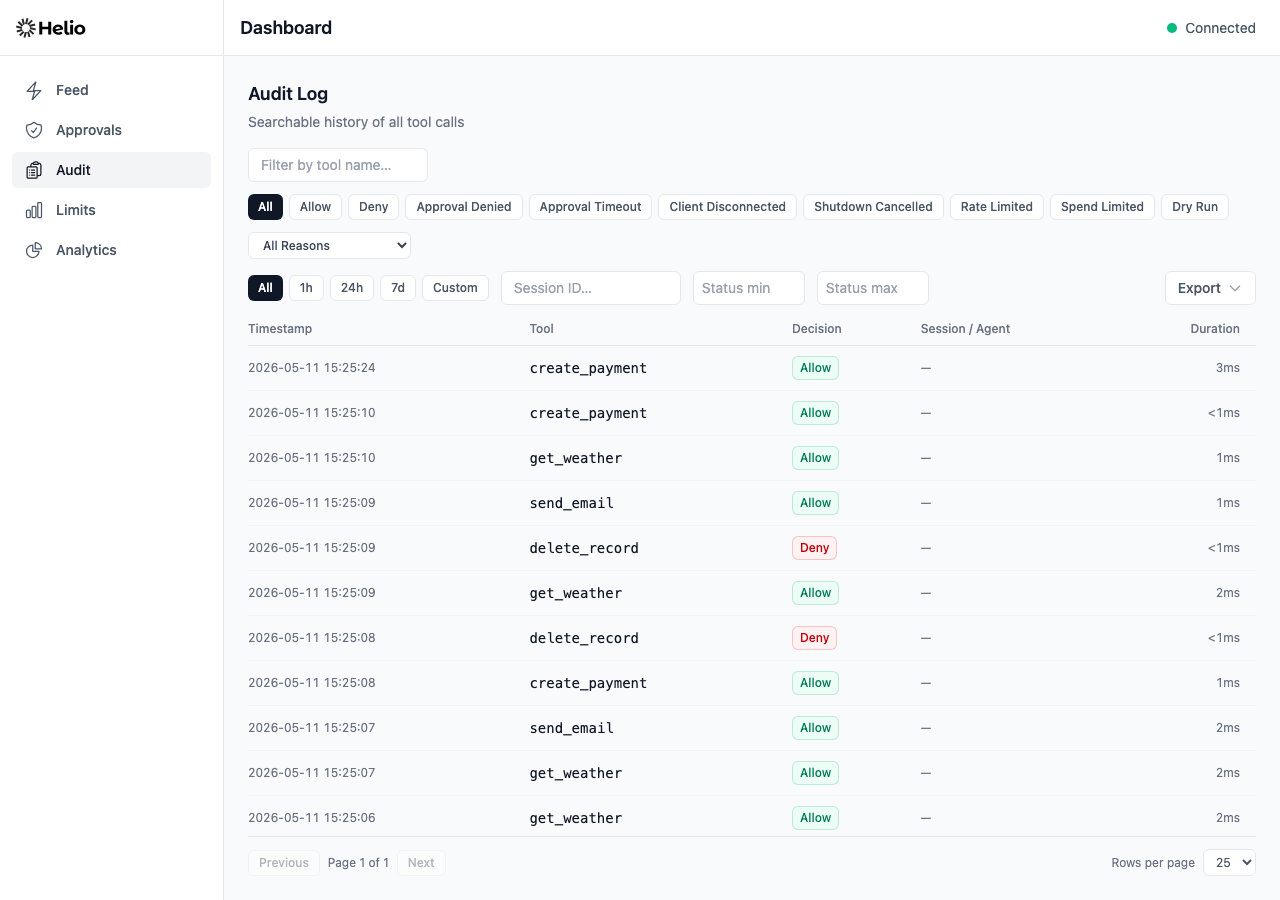
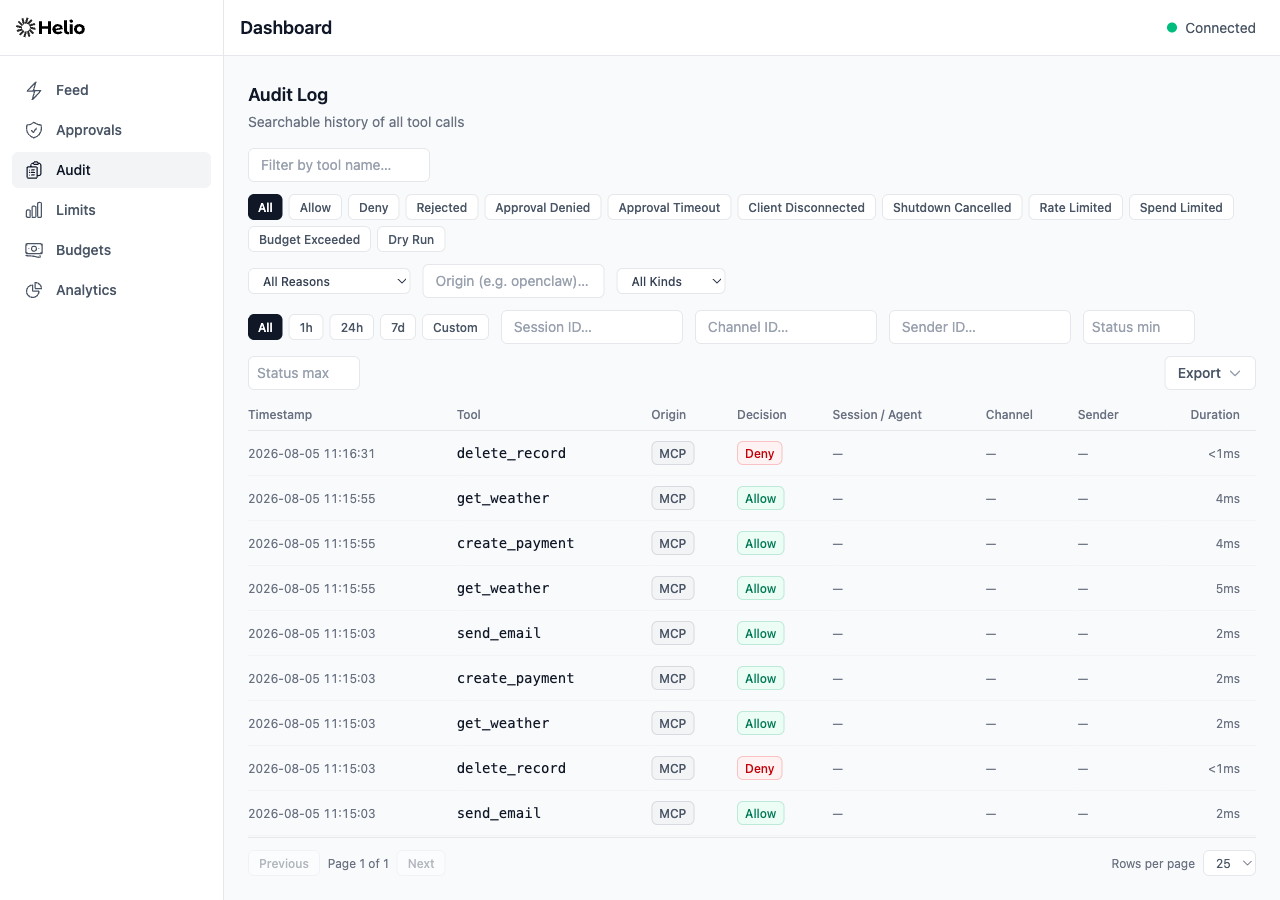
docs(packages): sync package READMEs and refresh dashboard screenshots (#246)
The npm-facing proxy README had drifted from the root README: the
How It Works section predated budgets and the enforcement grades,
the quick start still described hand-authoring helio.yaml instead of
the init scaffold and its audit-only default, and the SDK sideband
token was described as unconditional when it requires sdk.enabled.
Rebuild the file from the root README, keeping the npm-specific
divergences: absolute links, a raw.githubusercontent image URL, and
the note that docs are not bundled into the tarball.

Add the budgets view to the dashboard README's feature list, state
the allow_open_mode gate on secretless configs, and align the Python
SDK quick start with the sdk.enabled default and the current startup
log wording.

Replace the three dashboard screenshots in docs/images with captures
of the current UI: the budgets tab, origin badges and columns, and
the newer decision filters were missing from the May captures. The
test call screenshot now shows the London example the getting
started guide runs.

diff --git a/packages/proxy/README.md b/packages/proxy/README.md
@@ -15,11 +15,13 @@
 
 ---
 
-Helio is an MCP proxy that sits between your AI agents and the tools they use. Every tool call passes through Helio, which enforces policies, checks evidence, routes approvals, tracks spend, and records everything - **without changing your agent code or your MCP servers.**
+Helio is an MCP proxy that sits between your AI agents and the tools they use. Every tool call passes through Helio, which enforces policies, checks evidence, routes approvals, caps cumulative spend, and records everything - **without changing your agent code or your MCP servers.**
 
 ```bash
 npx @gethelio/proxy init
 ```
+
+`@gethelio/proxy` is the only Node package you install. It ships the proxy runtime and bundled dashboard UI assets together.
 
 ## Why Helio?
 
@@ -31,25 +33,22 @@ Helio governs what agents **do to the rest of the world** across any MCP-compati
 
 ## How It Works
 
-```
-┌──────────────┐     ┌──────────────────────┐     ┌──────────────┐
-│              │     │       Helio           │     │              │
-│  MCP Client  │────▶│                       │────▶│  MCP Server  │
-│  (Agent)     │◀────│  • Policy engine      │◀────│  (Tools)     │
-│              │     │  • Evidence grounding  │     │              │
-└──────────────┘     │  • Approval workflows  │     └──────────────┘
-                     │  • Rate & spend limits │
-        Optional     │  • Audit trail         │
-      ┌─────────┐    │  • Self-repair feedback│
-      │  SDK    │───▶│                       │
-      │ (thin)  │    └──────────────────────┘
-      └─────────┘
-```
+<p align="center">
+  <img src="https://raw.githubusercontent.com/gethelio/helio/main/docs/images/how-it-works.svg" alt="MCP clients send tool calls through Helio — which applies its policy engine, evidence grounding, approval workflows, cross-tool spend budgets, rate and spend limits, audit trail, and self-repair feedback — before forwarding them to MCP servers. An optional thin Python SDK connects to Helio over a sideband." width="900" />
+</p>
 
 Two integration paths:
 
 1. **Proxy only**: Point your MCP client at Helio instead of your MCP server. Zero code changes. Immediate governance.
 2. **Proxy + SDK**: Add the thin Python SDK to annotate tool calls with evidence context and action dependencies. Richer governance, under 500 lines of code.
+
+### Enforcement grades
+
+Helio governs at the strongest grade each path physically allows, and records it per call:
+
+- **Structural** (stdio MCP) — Helio owns the only path to the tool; the agent cannot route around it.
+- **Network** (HTTP MCP) — structural given you control the upstream's egress.
+- **Host-enforced** (hook adapters via the [adapter API](https://github.com/gethelio/helio/blob/main/docs/adapter-api.md), e.g. OpenClaw) — for frameworks that run tools in-process and expose hooks rather than an MCP transport. The framework's hook gate enforces; Helio decides. This is a cooperative, lower grade than the proxy path, and Helio labels it as such rather than overclaiming. Helio's decisions still cannot be evicted from the agent's context or prompt-injected, and any attempt to route around them is visible in the audit trail.
 
 ## Quick Start (5 minutes)
 
@@ -59,15 +58,22 @@ Two integration paths:
 npx @gethelio/proxy init
 ```
 
+This single package includes the built-in dashboard UI bundle.
+
 ### 2. Configure
 
-Create a `helio.yaml` in your project root:
+`npx @gethelio/proxy init` already created a `helio.yaml` in your project root. Open it (e.g. `nano helio.yaml`, or in your editor) and point `upstream.url` at your existing MCP server. Helio v0.1 proxies a single upstream MCP server.
+
+> **Heads up — Helio starts in audit-only mode.** `init` scaffolds the `policies` section **commented out**, so out of the box Helio runs with `default: allow` and **zero rules**: it records every tool call to the audit trail but **blocks nothing**. Uncomment and edit `policies` (or paste your own rules) to start enforcing. See the [Policy Guide](https://github.com/gethelio/helio/blob/main/docs/policies.md) for rule syntax.
+
+The block below is an **illustrative target** — not the file `init` writes — showing policies, budgets, audit, and a dashboard secret:
 
 ```yaml
 version: '1'
 
 upstream:
-  url: 'http://localhost:3001/mcp' # Your existing MCP server
+  url: 'http://localhost:8080/mcp' # Your existing MCP server
+  transport: streamable-http # streamable-http (default), sse, or stdio
 
 listen:
   port: 3000 # Helio listens here
@@ -75,17 +81,8 @@ listen:
 policies:
   default: allow
 
+  # These rules match on tool-name globs (deny / rate-limit / spend-limit):
   rules:
-    # Require approval for write operations
-    - match:
-        tool: '*'
-        annotations:
-          readOnlyHint: false
-      action: require_approval
-      approval:
-        channel: dashboard
-        timeout: 300s
-
     # Block destructive operations
     - match:
         tool: 'delete_*'
@@ -137,18 +134,23 @@ audit:
 dashboard:
   enabled: true
   port: 3100
-  # Required whenever any rule uses `require_approval`. Generate with:
-  #   openssl rand -hex 32
   api_secret: '${HELIO_DASHBOARD_SECRET}'
 ```
 
-If you use the `${HELIO_DASHBOARD_SECRET}` placeholder above, set it before `start`:
+Omitted fields like `listen.host`, `dashboard.host`, and `audit.path` fall back to safe defaults (`127.0.0.1` for both hosts — loopback only — and `./helio-audit.db`). The [Configuration Reference](https://github.com/gethelio/helio/blob/main/docs/configuration.md) is the authoritative list of every field, its default, and the canonical section order.
 
-```bash
-export HELIO_DASHBOARD_SECRET="$(openssl rand -hex 32)"
-```
+If your upstream requires a static credential (for example `Authorization: Bearer …` on a hosted MCP server), set [`upstream.headers`](https://github.com/gethelio/helio/blob/main/docs/configuration.md#static-request-headers) — values support `${VAR}` interpolation so secrets stay out of the file.
 
-> **Host binding defaults.** `helio start` binds `listen.host` and `dashboard.host` to `127.0.0.1` by default (the `helio init` template writes this value, and the schema defaults to it). Do **not** flip either to `0.0.0.0` without putting an authenticating reverse proxy in front — the MCP edge has no authentication at all, and the dashboard sideband's bearer is a shared secret, not a user session. The [Docker quickstart](https://github.com/gethelio/helio/tree/main/docker) inverts this layering: inside the container the bundled config binds `0.0.0.0` (correct for the container's virtual network) and Compose's `ports:` map publishes both ports back to `127.0.0.1` on the host.
+No MCP server to test against? Helio ships a zero-dependency echo server you can run in one command — see the [Getting Started guide](https://github.com/gethelio/helio/blob/main/docs/getting-started.md#no-mcp-server-to-test-with).
+
+About `dashboard.api_secret`:
+
+- **If you ran `npx @gethelio/proxy init`**, your `helio.yaml` already contains a generated `api_secret` (a literal 32-byte hex value, also printed when you ran `init`). It's set — skip this step.
+- **If you authored `helio.yaml` by hand** using the `${HELIO_DASHBOARD_SECRET}` placeholder shown above, set the variable before `start`:
+
+  ```bash
+  export HELIO_DASHBOARD_SECRET="$(openssl rand -hex 32)"
+  ```
 
 ### 3. Start Helio
 
@@ -168,15 +170,27 @@ npx @gethelio/proxy start
 }
 ```
 
+**No agent handy?** You don't need one to see Helio work. Point the official [MCP Inspector](https://modelcontextprotocol.io/docs/tools/inspector) at `http://localhost:3000/mcp` (run `npx @modelcontextprotocol/inspector`, transport: Streamable HTTP — Inspector connects through its own local backend, which sends no `Origin` header; a browser-sent `Origin` is rejected by design), or send a call straight through the proxy from the terminal:
+
+```bash
+curl -s -X POST http://localhost:3000/mcp \
+  -H 'Content-Type: application/json' \
+  -d '{"jsonrpc":"2.0","id":1,"method":"tools/call","params":{"name":"get_weather","arguments":{"city":"London"}}}'
+```
+
+Either way the call appears in the dashboard with its policy decision. (`get_weather` is one of the demo tools in Helio's [echo server](https://github.com/gethelio/helio/blob/main/docs/getting-started.md#no-mcp-server-to-test-with).)
+
 ### 5. Open the dashboard
 
 ```
 http://localhost:3100
 ```
 
-That's it. Every tool call now passes through Helio. This includes full audit trail, approval workflows, rate limits, and spend controls.
+If prompted, log in with the `dashboard.api_secret` that `init` generated (also printed when you ran it).
 
-> **Notification transport semantics (v0.1).** For JSON-RPC notifications (requests with no `id`), Helio's `streamable-http` endpoint returns `HTTP 202 Accepted` with an empty body after forwarding upstream fire-and-forget. For the legacy `sse` transport, POST requests also return `202` with empty body and response payloads are delivered on the SSE stream. For correlated (non-notification) requests, Helio now requires upstream JSON-RPC responses to include an `id`; missing-id upstream replies are wrapped as protocol-invalid upstream errors.
+That's it. Every tool call now passes through Helio with a full audit trail, rate limits, and spend controls.
+
+Want human-in-the-loop approvals for write operations? See [docs/approvals.md](https://github.com/gethelio/helio/blob/main/docs/approvals.md) for the full Slack and dashboard approval flow, or copy [examples/slack-approvals/](https://github.com/gethelio/helio/tree/main/examples/slack-approvals) as a starting point.
 
 ## Features
 
@@ -200,12 +214,11 @@ Cumulative cross-tool spend enforcement: one depleting pot aggregates spend acro
 
 ```yaml
 budgets:
-  - name: agent-payments
+  - name: daily-cap
     limit: 50
     currency: USD
-    window: session
-    key: session
-    on_exceed: require_approval # or: deny
+    window: 24h
+    on_exceed: require_approval # a breach becomes a human decision
     contributors:
       - match:
           tool: 'stripe_*'
@@ -214,6 +227,8 @@ budgets:
           tool: 'paypal_*'
         field: '$.total'
 ```
+
+Budgets govern tools that expose what they are spending in an argument field. Watch the full flow — live depletion, breach, break-glass approval, the approved overage landing in the ledger — in the [Docker quickstart demo](https://github.com/gethelio/helio/blob/main/docker/README.md#break-the-budget) or the runnable [budgets example](https://github.com/gethelio/helio/tree/main/examples/budgets).
 
 ### Evidence Grounding
 
@@ -239,15 +254,15 @@ with HelioContext() as ctx:
     ctx.mark_evidence("orders.lookup", "order_data", result)
 ```
 
-The SDK talks to the proxy over the sideband API (default `127.0.0.1:3200`; bind host is configurable via `sdk.host`). On every `helio start` the proxy generates a fresh 32-byte hex token and prints it to stderr:
+The SDK talks to the proxy over the sideband API (default `127.0.0.1:3200`; bind host is configurable via `sdk.host`). When the SDK sideband is enabled (`sdk.enabled: true`, off by default), the proxy generates a fresh 32-byte hex token on every `helio start` and prints it to stderr:
 
 ```
 SDK sideband listening on http://127.0.0.1:3200
-SDK token (pass as HELIO_SDK_TOKEN env var to your SDK clients):
+SDK token (generated per-boot HELIO_SDK_TOKEN; pass as HELIO_SDK_TOKEN env var to your SDK clients):
   3f9c2b...d8a1
 ```
 
-Pass the same value to the SDK process via `HELIO_SDK_TOKEN` and the SDK automatically attaches `Authorization: Bearer <token>` to every sideband call. The sideband also rejects any request carrying a non-null `Origin` header, so a malicious local HTML file cannot talk to it through a browser. Operators who need a stable token across restarts can set `HELIO_SDK_TOKEN` explicitly in the proxy's environment — the proxy respects a pre-set value instead of regenerating one.
+Pass the same value to the SDK process via `HELIO_SDK_TOKEN` and the SDK automatically attaches `Authorization: Bearer <token>` to every sideband call. The sideband also rejects any request carrying a non-null `Origin` header, so a malicious local HTML file cannot talk to it through a browser. Operators who need a stable token across restarts can set `HELIO_SDK_TOKEN` explicitly in the proxy's environment — the proxy respects a pre-set value instead of regenerating one, and does not echo it to stderr.
 
 ### Self-Repair Feedback
 
@@ -278,7 +293,6 @@ policies:
 ### Approval Workflows
 
 Route sensitive actions to Slack, webhook, or the Helio dashboard. Configurable timeout and escalation, plus a dashboard-only break-glass override (REST API and dashboard UI; not exposed as a Slack button).
-If a channel delivery fails, Helio logs an operational warning and emits an `approval_notification_failed` dashboard event so operators can investigate without losing the underlying pending ticket.
 
 ### Rate & Spend Limits
 
@@ -334,7 +348,7 @@ Ready-made configurations for common patterns:
 - **[Basic](https://github.com/gethelio/helio/tree/main/examples/basic)**: Deny destructive operations, allow everything else
 - **[Slack Approvals](https://github.com/gethelio/helio/tree/main/examples/slack-approvals)**: Route destructive actions to Slack
 - **[Spend Limits](https://github.com/gethelio/helio/tree/main/examples/spend-limits)**: Govern payment tool usage
-- **[Budgets](https://github.com/gethelio/helio/tree/main/examples/budgets)**: One cross-tool budget across Stripe and PayPal tools, with break-glass overage approvals
+- **[Budgets](https://github.com/gethelio/helio/tree/main/examples/budgets)**: A cross-tool budget across Stripe and PayPal tools with break-glass overage approvals, paired with a category cap that only charges calls declaring their spend category
 
 ## Contributing
 

diff --git a/packages/dashboard/README.md b/packages/dashboard/README.md
@@ -1,6 +1,6 @@
 # @gethelio/dashboard
 
-The operator UI for the [Helio MCP governance proxy](https://github.com/gethelio/helio). A React 19 + Vite single-page app that renders the live tool-call feed, audit search, policy decision analytics, rate/spend limit state, and the approval queue.
+The operator UI for the [Helio MCP governance proxy](https://github.com/gethelio/helio). A React 19 + Vite single-page app that renders the live tool-call feed, audit search, policy decision analytics, rate/spend limit state, cross-tool budget pots, and the approval queue.
 
 This package is consumed by `@gethelio/proxy` — when you run `helio start` with `dashboard.enabled: true`, the proxy serves the dashboard's static assets directly. This workspace package is internal and is not published separately.
 
@@ -39,14 +39,14 @@ See `packages/proxy/src/dashboard/api.ts` for the auth/session middleware and `p
 
 ## Detail panel truncation + history safety
 
-Dashboard detail views can receive arbitrarily large payloads from upstream tools and approval inputs. The UI now applies consistent 4 KB preview caps via `stringifyForDisplay()` / `truncateForDisplay()` in `src/utils.ts`:
+Dashboard detail views can receive arbitrarily large payloads from upstream tools and approval inputs. The UI applies consistent 4 KB preview caps via `stringifyForDisplay()` / `truncateForDisplay()` in `src/utils.ts`:
 
 - `AuditDetailPanel` truncates `tool_input`, `upstream_response`, and `upstream_error`.
 - `ApprovalsPage` truncates `tool_input` in both pending and resolved detail rows.
 
 This protects the browser from expensive mega-string renders while keeping operators aware that the preview is truncated. The full audit record remains available through CLI/API export paths (`helio export`, `GET /api/audit/export`).
 
-Approvals history loading is additionally safety-capped at 5,000 rows in the current implementation. When that cap is reached, the page renders an explicit warning banner so older entries are never silently omitted.
+Approvals history loading is additionally safety-capped at 5,000 rows (20 pages of 250). When that cap is reached, the page renders an explicit warning banner so older entries are never silently omitted.
 
 This package does not ship any runtime JavaScript module exports. Proxy runtime serving uses bundled static assets copied into `@gethelio/proxy` during build.
 
@@ -62,7 +62,7 @@ pnpm --filter @gethelio/proxy dev
 pnpm --filter @gethelio/dashboard dev
 ```
 
-Open the Vite URL (default `http://localhost:5173`). If your proxy has `dashboard.api_secret` set, the app shows the lock screen first; enter the secret and the proxy establishes a cookie session automatically. If your proxy has no `api_secret` configured, the app goes straight to the dashboard.
+Open the Vite URL (default `http://localhost:5173`). If your proxy has `dashboard.api_secret` set, the app shows the lock screen first; enter the secret and the proxy establishes a cookie session automatically. If your proxy has no `api_secret` configured (which the config schema only allows with `dashboard.allow_open_mode: true` on a loopback host), the app goes straight to the dashboard.
 
 ## Scripts
 

diff --git a/packages/python-sdk/README.md b/packages/python-sdk/README.md
@@ -12,7 +12,7 @@ pip install helio-client
 
 ## Quick Start
 
-The proxy prints a per-boot SDK token to stderr on startup (`SDK token (pass as HELIO_SDK_TOKEN env var to your SDK clients): ...`). Export it in the environment where your SDK client runs — the client reads `HELIO_SDK_TOKEN` automatically and attaches it as `Authorization: Bearer <token>` on every sideband call. Without it, requests to the proxy sideband are rejected with `401`.
+When the proxy runs with `sdk.enabled: true` (off by default), it prints a per-boot SDK token to stderr on startup (`SDK token (generated per-boot HELIO_SDK_TOKEN; pass as HELIO_SDK_TOKEN env var to your SDK clients): ...`); if the proxy's environment already has `HELIO_SDK_TOKEN` set, that value is reused instead and not echoed. Export the same token in the environment where your SDK client runs — the client reads `HELIO_SDK_TOKEN` automatically and attaches it as `Authorization: Bearer <token>` on every sideband call. Without it, requests to the proxy sideband are rejected with `401`.
 
 ```bash
 export HELIO_SDK_TOKEN=<token-from-proxy-startup-logs>
